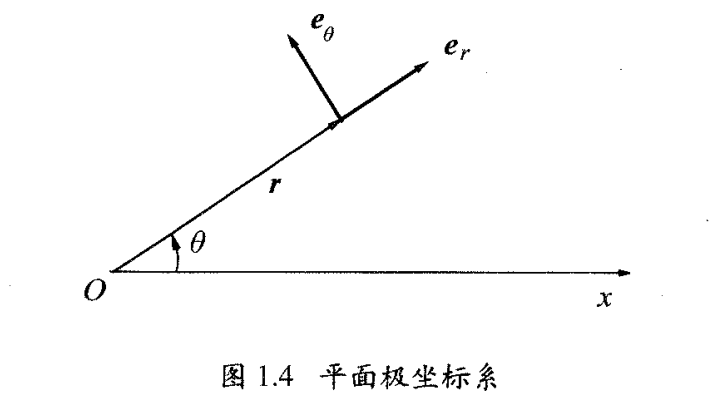
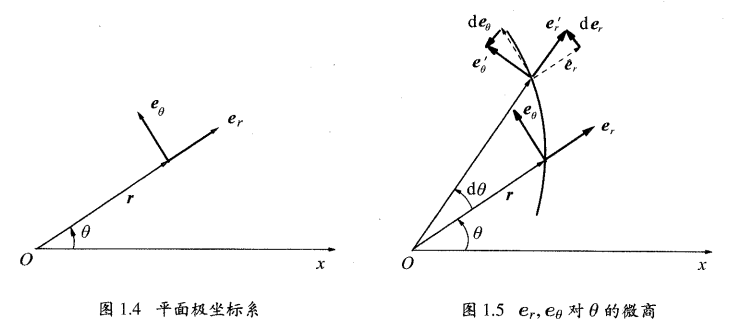
经典力学

diff --git a/_posts/4000-01-01-【理论力学】牛顿力学.md b/_posts/4000-01-01-【理论力学】牛顿力学.md
@@ -70,6 +70,65 @@ $$
 
 ![picture]({{ site.img }}/pmjzbx.PNG)
 
+根据图$1.5$，可得微分
+
+$$
+d\vec {e_r}=\vec {e_r}'-\vec {e_r}=\vec {e_\theta}d\theta
+$$
+
+$$
+d\vec {e_\theta}=\vec {e_\theta}'-\vec {e_\theta}=-\vec {e_r}d\theta
+$$
+
+所以
+
+$$
+\frac{d\vec{e_r}}{d\theta}=\vec {e_\theta}
+$$
+
+$$
+\frac{d\vec{e_\theta}}{d\theta}=-\vec {e_r}
+$$
+
+在此我们来研究一下**速度的表达式**：
+
+$$
+\vec v=\frac{d}{dt}(\vec r)=\frac{d}{dt}(r·\vec {e_r})
+\\=\frac{dr}{dt}·\vec {e_r}+r·\frac{d\vec{e_r}}{d\theta}·\frac{d\theta}{dt}
+\\=\dot r·\vec{e_r}+r\dot \theta·\vec {e_\theta}
+$$
+
+或者我们看分量形式：
+
+$$
+v_r=\dot r
+$$
+
+$$
+v_\theta=r\dot \theta
+$$
+
+同理可得加速度
+
+$$
+\vec a=\frac{d}{dt}(\dot r·\vec{e_r}+r\dot \theta·\vec {e_\theta})
+\\=(\ddot r-r\dot\theta^2)\vec{e_r}+(r\ddot \theta+2\dot r \dot \theta)\vec {e_\theta}
+$$
+
+
+即：
+
+$$
+a_r=\ddot r-r\dot \theta^2
+$$
+
+$$
+a_\theta=r\ddot \theta+2\dot r\dot \theta
+\\=\frac{1}{r}\frac{d}{dt}(r^2\dot\theta)
+$$
+
+
+
 
 
 
